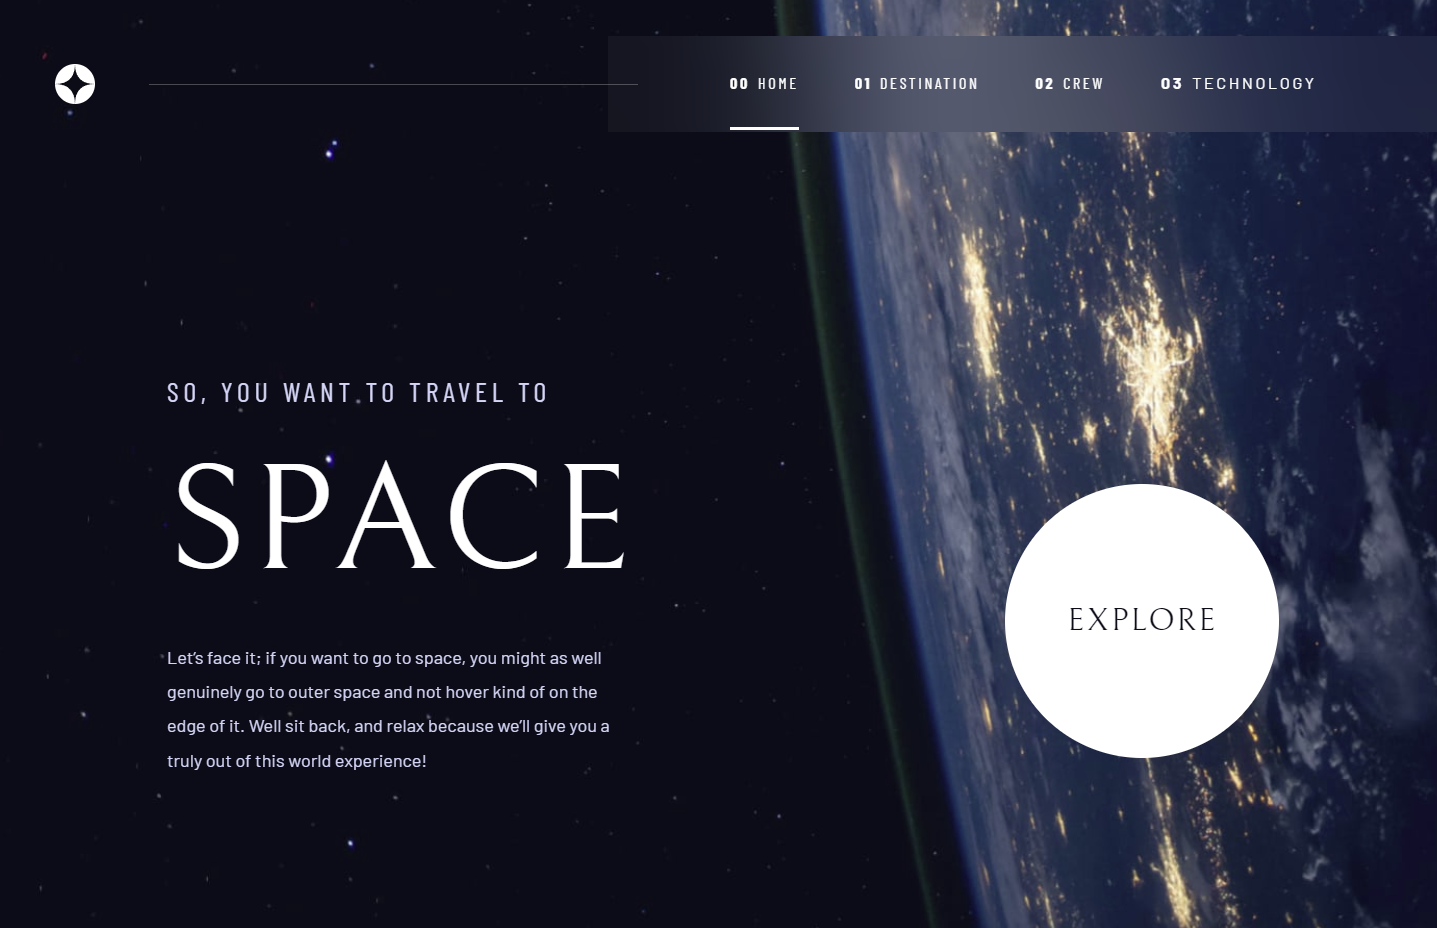
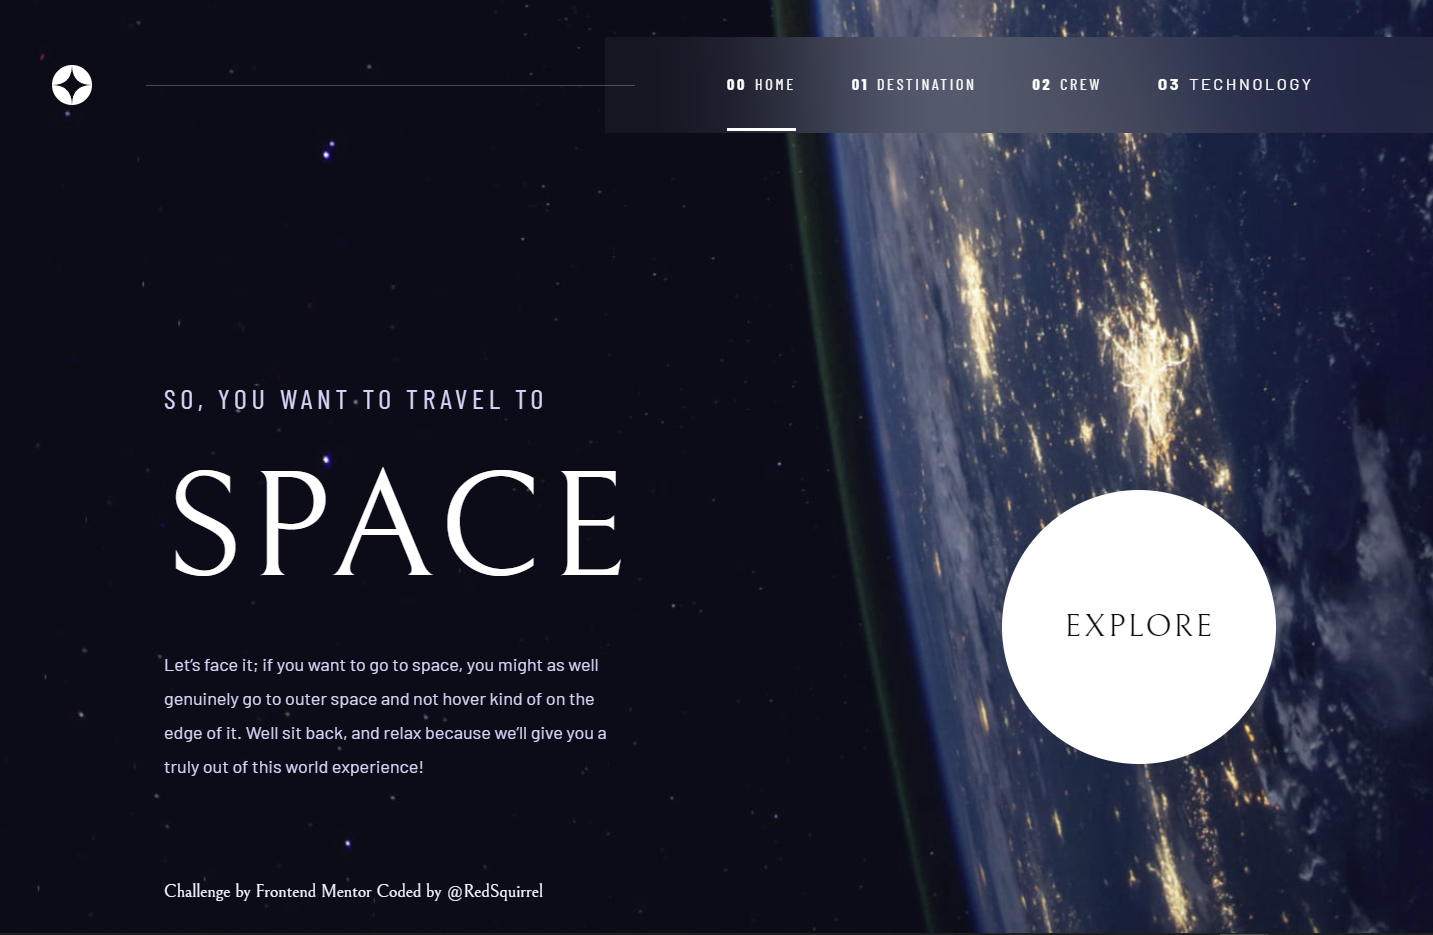
more testing and footer

diff --git a/cypress/integration/space_app.spec.js b/cypress/integration/space_app.spec.js
@@ -13,6 +13,7 @@ describe('Home Page', function () {
   it('Expore button can be clicked', function () {
     cy.get('.home__large-button-container__large-button').click();
     cy.contains('Pick Your Destination');
+    cy.contains('Moon');
   });
 
   it('Logo button can be clicked and return to home page', function () {
@@ -36,10 +37,59 @@ describe('Destination Page', function () {
       cy.wrap(buttons[1]).click();
     });
 
-    // cy.get('form').find('img').should('have.attr', 'src', 'My-Logo')
     cy.contains(
       'Don’t forget to pack your hiking boots. You’ll need them to tackle Olympus Mons, the tallest planetary mountain in our solar system. It’s two and a half times the size of Everest!'
     );
     cy.get('.destination__picture__img').should('have.attr', 'src', '/destination/image-mars.png');
+  });
+});
+
+describe('Crew Page', function () {
+  beforeEach(() => {
+    cy.visit('/crew');
+  });
+
+  it('Crew page can be opened', function () {
+    cy.contains('Commander');
+    cy.contains('Douglas Hurley');
+  });
+
+  it('Dot button can be clicked', function () {
+    cy.get('.transparent').then((buttons) => {
+      cy.wrap(buttons[3]).click();
+    });
+
+    cy.contains('Flight Engineer');
+    cy.contains('Anousheh Ansari');
+    cy.get('.crew__picture__img').should('have.attr', 'src', '/crew/image-anousheh-ansari.png');
+  });
+});
+
+describe('Technology Page', function () {
+  beforeEach(() => {
+    cy.visit('/technology');
+  });
+
+  it('Technology page can be opened', function () {
+    cy.contains('Launch vehicle');
+    cy.get('.technology__picture__img').should('have.attr', 'alt', 'Launch vehicle');
+  });
+
+  it('Button 2 can be clicked', function () {
+    cy.get('.transparent').then((buttons) => {
+      cy.wrap(buttons[1]).click();
+    });
+
+    cy.contains('Spaceport');
+    cy.get('.technology__picture__img').should('have.attr', 'alt', 'Spaceport');
+  });
+});
+
+describe('Back to Home page', function () {
+  it('Logo button can be clicked and return to home page', function () {
+    cy.get('.header__content__logo').click();
+    cy.contains('So, you want to travel to');
+    cy.contains('Space');
+    cy.url().should('be.eq', 'http://localhost:3000/');
   });
 });

diff --git a/src/pages/Home/Home.scss b/src/pages/Home/Home.scss
@@ -32,7 +32,8 @@
   grid-template-areas:
     'title'
     'text-container'
-    'explore-btn';
+    'explore-btn'
+    'footer';
 
   @include breakpoint(24em) {
     background: url(../../assets/home/background-home-tablet.jpg) no-repeat center center/cover;
@@ -41,10 +42,11 @@
   @include breakpoint(48em) {
     background: url(../../assets/home/background-home-desktop.jpg) no-repeat center center/cover;
     grid-template-columns: minmax(1rem, 1fr) minmax(0, 55rem) minmax(0, 1fr) minmax(1rem, 12rem);
-    padding: 15rem 0.6rem 0.5rem 0.6rem;
+    padding: 20rem 0.6rem 0.5rem 0.6rem;
     grid-template-areas:
       '. title explore-btn .'
-      '. text-container explore-btn .';
+      '. text-container explore-btn .'
+      '. footer .  .';
   }
 
   .home {
@@ -144,5 +146,9 @@
         }
       }
     }
+  }
+  footer {
+    grid-area: footer;
+    color: hsla(hue($clr__white), saturation($clr__white), lightness($clr__white), 0.5);
   }
 }

diff --git a/src/pages/Footer/Footer.scss b/src/pages/Footer/Footer.scss
@@ -1,0 +1,34 @@
+@import './../../styles/variables.scss';
+
+footer {
+  color: hsla(hue($clr__white), saturation($clr__white), lightness($clr__white), 0.5);
+  font-size: unquote($string: 'clamp(0.5rem, 3vw, 1.125rem)');
+  animation: pulse 5s infinite;
+  transition: all 0.2s;
+
+  a {
+    text-decoration: none;
+    color: hsla(hue($clr__white), saturation($clr__white), lightness($clr__white), 0.5);
+    animation: pulse 5s infinite;
+    transition: all 0.2s;
+
+    &:hover {
+      text-decoration: underline;
+    }
+  }
+
+  @keyframes pulse {
+    0% {
+      color: $clr__white;
+    }
+    50% {
+      color: $clr__light;
+    }
+    75% {
+      color: $clr__border;
+    }
+    100% {
+      color: $clr__white;
+    }
+  }
+}

diff --git a/src/pages/Footer/Footer.js b/src/pages/Footer/Footer.js
@@ -1,0 +1,30 @@
+import './Footer.scss';
+
+const Footer = () => {
+  return (
+    <div className="footer">
+      Challenge by
+      <a
+        className="footer__link"
+        href="https://www.frontendmentor.io?ref=challenge"
+        target="_blank"
+        rel="noreferrer noopener"
+      >
+        {' '}
+        Frontend Mentor
+      </a>{' '}
+      Coded by
+      <a
+        className="footer__link"
+        href="https://github.com/RedSquirrrel/space-tourism"
+        target="_blank"
+        rel="noreferrer noopener"
+      >
+        {' '}
+        @RedSquirrel
+      </a>
+    </div>
+  );
+};
+
+export default Footer;

diff --git a/src/pages/Technology/Technology.js b/src/pages/Technology/Technology.js
@@ -44,7 +44,7 @@ const Technology = ({ technologyData }) => {
                   )}
                 </picture>
 
-                <div className="technology__dots dot-indicators transparent flex">
+                <div className="technology__dots dot-indicators  flex">
                   {technology &&
                     selectedNames.map((techno, index) => {
                       return (

diff --git a/src/pages/Home/Home.js b/src/pages/Home/Home.js
@@ -1,4 +1,5 @@
 import { Link } from 'react-router-dom';
+import Footer from '../Footer/Footer';
 import './Home.scss';
 
 const Home = () => {
@@ -31,6 +32,10 @@ const Home = () => {
             Explore
           </Link>
         </div>
+
+        <footer className="ff-serif text-accent">
+          <Footer />
+        </footer>
       </main>
     </div>
   );

diff --git a/README.md b/README.md
@@ -12,7 +12,7 @@ This is a solution to the [Space tourism website challenge on Frontend Mentor](h
   - [Built with](#built-with)
 - [Author](#author)
 - [Acknowledgments](#acknowledgments)
-- [E2E testing](#cypress-testing)
+- [Cypress( E2E testing)](#cypress-testing)
 
 ## Overview
 
@@ -42,6 +42,7 @@ Users should be able to:
 - CSS Grid
 - Mobile-first workflow
 - [React](https://reactjs.org/) - JS library
+- [Cypress testing](https://www.cypress.io/)
 
 ## Author
 
